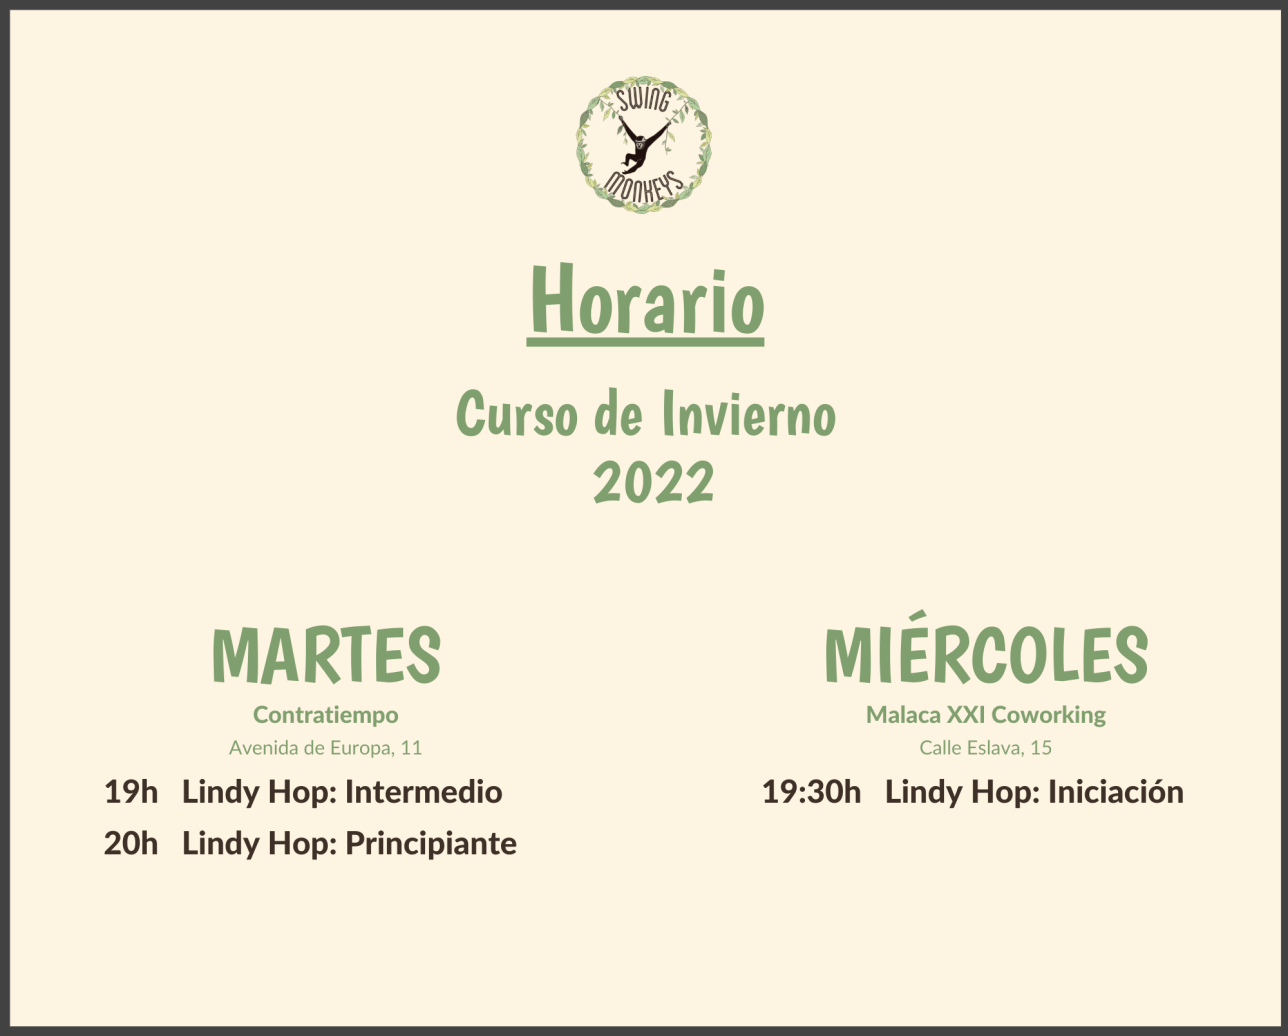
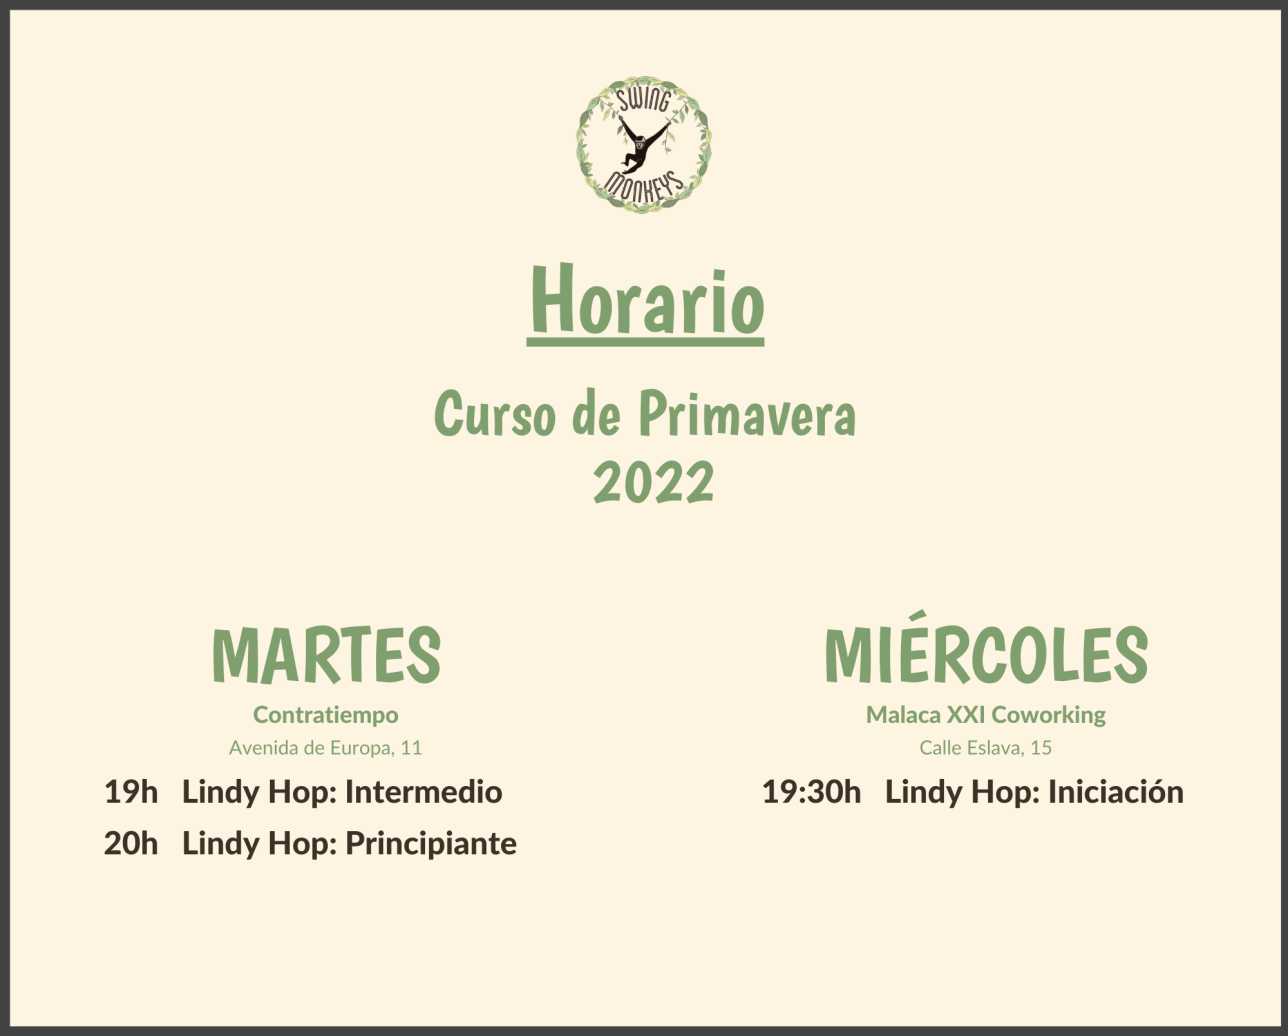
create github pages

Changed region(s): [[0.3416, 0.3707, 0.6832, 0.4324]]

diff --git a/clases.html b/clases.html
@@ -59,7 +59,7 @@
     </nav>
 </section>
 
-<section class="engine"><a href="https://mobirise.info/n">simple web templates</a></section><section class="header7 cid-shO8uX2D8h" id="header7-7p">
+<section class="engine"><a href="https://mobirise.info/x">css templates</a></section><section class="header7 cid-shO8uX2D8h" id="header7-7p">
 
     
 
@@ -72,7 +72,7 @@
                 <h1 class="mbr-section-title mbr-white pb-3 mbr-fonts-style display-2"><strong>Swing Monkeys:</strong><div><strong>Clases Regulares</strong></div></h1>
                 <div class="mbr-section-text mbr-white pb-3">
                     <p class="mbr-text mbr-fonts-style display-5">
-                        Curso de Invierno 2022</p>
+                        Curso de Primavera 2022</p>
                 </div>
                 <div class="mbr-section-btn"><a class="btn btn-md btn-primary display-4" href="https://forms.gle/CDSBTKzgjZMbXKFY7" target="_blank"><br>¡Inscríbete!<br>[Contratiempo]<br><br></a> <a class="btn btn-md btn-primary display-4" href="https://forms.gle/X1hPc6cRXQvVmWuAA" target="_blank">¡Inscríbete!<br>[Malaca XXI<br>Coworking]<br><br>*NUEVA CLASE*<br></a></div>
             </div>
@@ -238,7 +238,7 @@
     <div class="container">
         <div class="media-container-row">
 
-            <div class="plan col-12 mx-2 my-2 justify-content-center">
+            <div class="plan col-12 mx-2 my-2 justify-content-center col-lg-6">
                 <div class="plan-header text-center pt-5">
                     <h3 class="plan-title mbr-fonts-style display-5"><strong>MENSUAL</strong><br>Clases Regulares<br><em>1 clase/semana</em></h3>
                     <div class="plan-price">
@@ -257,7 +257,24 @@
                 </div>
             </div>
 
-            
+            <div class="plan col-12 mx-2 my-2 justify-content-center col-lg-6">
+                <div class="plan-header text-center pt-5">
+                    <h3 class="plan-title mbr-fonts-style display-5"><strong>TRIMESTRE<br></strong>Clases Regulares<br><em>1 clase/semana</em><br></h3>
+                    <div class="plan-price">
+                        <span class="price-value mbr-fonts-style display-5">&nbsp;</span>
+                        <span class="price-figure mbr-fonts-style display-1">81</span>
+                        <small class="price-term mbr-fonts-style display-7">
+                            €</small>
+                    </div>
+                </div>
+                <div class="plan-body pb-5">
+                    <div class="plan-list align-center">
+                        <ul class="list-group list-group-flush mbr-fonts-style display-7">
+                            <li class="list-group-item"><strong><br></strong></li><li class="list-group-item"><strong>&nbsp; &nbsp; &nbsp;11h de clases</strong></li><li class="list-group-item">&nbsp; &nbsp; &nbsp; &nbsp; &nbsp; &nbsp; &nbsp; &nbsp; &nbsp; &nbsp; &nbsp; &nbsp; &nbsp; &nbsp; &nbsp; &nbsp; &nbsp; &nbsp; &nbsp; &nbsp; &nbsp; &nbsp; &nbsp; &nbsp; &nbsp; &nbsp; [Abril - Junio]</li></ul>
+                    </div>
+                    
+                </div>
+            </div>
 
             
 
@@ -274,11 +291,11 @@
     <div class="container">
         <div class="row justify-content-center content-row">
             <div class="media-container-column title col-12 col-lg-7 col-md-6">
-                <h3 class="mbr-section-subtitle align-left mbr-light pb-3 mbr-fonts-style display-5"><br><br>¡Sigue nuestro calendario para ver todas las fechas de las clases regulares para el curso de invierno 2022!<br><br></h3>
+                <h3 class="mbr-section-subtitle align-left mbr-light pb-3 mbr-fonts-style display-5"><br><br>¡Sigue nuestro calendario para ver todas las fechas de las clases regulares para el curso de primavera 2022!<br><br></h3>
                 <h2 class="align-left mbr-bold mbr-fonts-style display-7"></h2>
             </div>
             <div class="media-container-column col-12 col-lg-3 col-md-4">
-                <div class="mbr-section-btn align-right py-4"><a class="btn btn-primary display-4" href="https://calendar.google.com/calendar/embed?src=phpl6co91sa33t22lhgc2hs3dc%40group.calendar.google.com&ctz=Europe%2FMadrid" target="_blank"><em><br></em>Calendario:<br>Curso de Invierno<br> 2022<br></a></div>
+                <div class="mbr-section-btn align-right py-4"><a class="btn btn-primary display-4" href="https://calendar.google.com/calendar/u/0?cid=aW5iczVybW1ha2xjOGQ4M2Z1cTZrMzY1MXNAZ3JvdXAuY2FsZW5kYXIuZ29vZ2xlLmNvbQ" target="_blank"><em><br></em>Calendario:<br>Curso de Primavera<br> 2022<br></a></div>
             </div>
         </div>
     </div>
@@ -312,7 +329,7 @@
                             </div>                
 
                             <div class="card-box">
-                                <p class="block-text mbr-fonts-style display-7"></p><p><strong>• Las clases consisten en una sesión a la semana y tienen una duración de 1 hora.</strong><br><br><strong>• Los requisitos de nivel/experiencia de cada clase se especifican en el formulario de inscripción. Siempre se adapta el ritmo de la clase a lxs alumnxs apuntadxs.</strong><br><br><strong>• Para las clases de Lindy Hop, no es necesario apuntarse con una pareja. Habrá rotaciones entre parejas durante la clase.&nbsp;</strong><br><br><strong>• Para asistir a las clases en la sala Contratiempo, es necesario abonar una matrícula de 15€ en adición a la cuota de la clase.</strong><strong><br></strong><br><strong>• Para mantener una distancia segura, el aforo de las clases&nbsp;</strong><strong>será limitado a: 20 personas (Contratiempo) y 18 personas (Malaca XXI Coworking).&nbsp;El aforo puede cambiar dependiendo de las restricciones actuales de la Junta de Andalucía.</strong><br><br><strong>• Se dispone de gel desinfectante para usar antes, durante, y después de las clases.&nbsp;</strong><br><br><strong>• Es recomendado llevar una botella de agua a la clase.&nbsp;</strong><br><br><strong>• El uso de la mascarilla es obligatorio durante las clases y durante los descansos. Solamente se podrá no hacer uso de la mascarilla para reponer las fuerzas (beber agua y/o comer algo). Si te sientes débil fisicamente o tiene problemas respiratorios, las clases regulares no están recomendadas.<br></strong><br>• <strong>Tráete&nbsp;un segundo par de zapatos para cambiarte y usarlos durante las clases. Recomendamos zapatos deslizantes, planos y cómodos.</strong><br><br><strong>• Las clases regulares para el curso serán impartidos por los profesores Jimmy y Atenea.</strong><br><br><strong>• En caso de que un grupo no llegue a su mínimo de asistentes se procederá a fusionar grupos u otros cambios. Os avisaremos con antelación y agradecemos la comprensión y flexibilidad.</strong><br><br><strong>•&nbsp;El baile swing es una actividad física y siempre existen riesgos. Los alumnos participan libremente conociendo estos riesgos. Swing Monkeys no se hace responsable de cualquier lesión que pueda ocurrir. Sin embargo, dispondrá de las medidas de seguridad necesarias para evitar y minimizar dichos riesgos.</strong><br><strong><br></strong><br>Si tienes cualquier duda, puedes contactar con nosotros a través del email (info.swingmonkeys@gmail.com) o teléfono (637 23 20 36).<strong><br></strong><br><strong><br></strong></p><p></p>
+                                <p class="block-text mbr-fonts-style display-7"></p><p><strong>• Las clases consisten en una sesión a la semana y tienen una duración de 1 hora.</strong><br><br><strong>• El trimestre empezará el martes, 5 de abril y se desarrollará hasta el miércoles, 22 de junio.</strong><br><br><strong>• Los requisitos de nivel/experiencia de cada clase se especifican en el formulario de inscripción. Siempre se adapta el ritmo de la clase a lxs alumnxs apuntadxs.</strong><br><br><strong>• Para las clases de Lindy Hop, no es necesario apuntarse con una pareja. Habrá rotaciones entre parejas durante la clase.&nbsp;</strong><br><br><strong>• Para asistir a las clases en la sala Contratiempo, es necesario abonar una matrícula de 10€ en adición a la cuota de la clase.</strong><strong><br></strong><br><strong>• Para mantener una distancia segura, el aforo de las clases&nbsp;</strong><strong>será limitado a: 20 personas (Contratiempo) y 18 personas (Malaca XXI Coworking).&nbsp;El aforo puede cambiar dependiendo de las restricciones actuales de la Junta de Andalucía.</strong><br><br><strong>• Se dispone de gel desinfectante para usar antes, durante, y después de las clases.&nbsp;</strong><br><br><strong>• Es recomendado llevar una botella de agua a la clase.&nbsp;</strong><br><br><strong>• El uso de la mascarilla es obligatorio durante las clases y durante los descansos. Solamente se podrá no hacer uso de la mascarilla para reponer las fuerzas (beber agua y/o comer algo). Si te sientes débil fisicamente o tiene problemas respiratorios, las clases regulares no están recomendadas.<br></strong><br>• <strong>Tráete&nbsp;un segundo par de zapatos para cambiarte y usarlos durante las clases. Recomendamos zapatos deslizantes, planos y cómodos.</strong><br><br><strong>• Las clases regulares para el curso serán impartidos por los profesores Jimmy y Atenea.</strong><br><br><strong>• En caso de que un grupo no llegue a su mínimo de asistentes se procederá a fusionar grupos u otros cambios. Os avisaremos con antelación y agradecemos la comprensión y flexibilidad.</strong><br><br><strong>•&nbsp;El baile swing es una actividad física y siempre existen riesgos. Los alumnos participan libremente conociendo estos riesgos. Swing Monkeys no se hace responsable de cualquier lesión que pueda ocurrir. Sin embargo, dispondrá de las medidas de seguridad necesarias para evitar y minimizar dichos riesgos.</strong><br><strong><br></strong><br>Si tienes cualquier duda, puedes contactar con nosotros a través del email (info.swingmonkeys@gmail.com) o teléfono (637 23 20 36).<strong><br></strong><br><strong><br></strong></p><p></p>
                             </div>
                         </div>
 

diff --git a/contacto.html b/contacto.html
@@ -57,7 +57,7 @@
     </nav>
 </section>
 
-<section class="engine"><a href="https://mobirise.info/a">online website builder</a></section><section class="mbr-section form1 cid-s0cOR83OJy" id="form1-72">
+<section class="engine"><a href="https://mobirise.info/q">responsive website templates</a></section><section class="mbr-section form1 cid-s0cOR83OJy" id="form1-72">
 
     
 
@@ -76,7 +76,7 @@
         <div class="row justify-content-center">
             <div class="media-container-column col-lg-8" data-form-type="formoid">
                 <!---Formbuilder Form--->
[2 lines of base64/hex data omitted]
                     <div class="row row-sm-offset">
                         <div hidden="hidden" data-form-alert="" class="alert alert-success col-12">¡Gracias por contactarnos! En breve te respondemos por email. 
 

diff --git a/clases-online.html b/clases-online.html
@@ -59,7 +59,7 @@
     </nav>
 </section>
 
-<section class="engine"><a href="https://mobirise.info/y">free html web templates</a></section><section class="header1 cid-sb9a3VEqmt" id="header16-7g">
+<section class="engine"><a href="https://mobirise.info/z">best free html templates</a></section><section class="header1 cid-sb9a3VEqmt" id="header16-7g">
 
     
 

diff --git a/ronda.html b/ronda.html
@@ -57,7 +57,7 @@
     </nav>
 </section>
 
-<section class="engine"><a href="https://mobirise.info/h">how to create your own web page</a></section><section class="header7 cid-rzZcfANzLw" id="header7-55">
+<section class="engine"><a href="https://mobirise.info/e">how to make a site</a></section><section class="header7 cid-rzZcfANzLw" id="header7-55">
 
     
 

diff --git a/ivo-masha.html b/ivo-masha.html
@@ -59,7 +59,7 @@
     </nav>
 </section>
 
-<section class="engine"><a href="https://mobirise.info/i">free web creation software</a></section><section class="header3 cid-rC8y70rKO5" id="header3-5a">
+<section class="engine"><a href="https://mobirise.info/y">html website templates</a></section><section class="header3 cid-rC8y70rKO5" id="header3-5a">
 
     
 

diff --git a/page13.html b/page13.html
@@ -58,7 +58,7 @@
     </nav>
 </section>
 
-<section class="engine"><a href="https://mobirise.info/v">html templates</a></section><section class="header3 cid-rJYlazD0Wt" id="header3-69">
+<section class="engine"><a href="https://mobirise.info/h">how to create your own web page</a></section><section class="header3 cid-rJYlazD0Wt" id="header3-69">
 
     
 

diff --git a/nosotros.html b/nosotros.html
@@ -196,7 +196,7 @@
     </div>
 </section>
 
-<section class="engine"><a href="https://mobirise.info/d">website maker</a></section><section class="features11 cid-rsC8V0k0t3" id="features11-47">
+<section class="engine"><a href="https://mobirise.info/j">website templates</a></section><section class="features11 cid-rsC8V0k0t3" id="features11-47">
 
     
 

diff --git a/eventos.html b/eventos.html
@@ -62,7 +62,7 @@
     </nav>
 </section>
 
-<section class="engine"><a href="https://mobirise.info/f">easy site builder</a></section><section class="header3 cid-scKUBhQGzC" id="header3-7l">
+<section class="engine"><a href="https://mobirise.info/n">free simple site templates</a></section><section class="header3 cid-scKUBhQGzC" id="header3-7l">
 
     
 

diff --git a/jara.html b/jara.html
@@ -65,7 +65,7 @@
     </div>          
 </section>
 
-<section class="engine"><a href="https://mobirise.info/r">free bootstrap template</a></section><section class="cid-rJMEmvNL9w" id="footer1-65">
+<section class="engine"><a href="https://mobirise.info/l">free website templates</a></section><section class="cid-rJMEmvNL9w" id="footer1-65">
 
     
 

diff --git a/miguel.html b/miguel.html
@@ -65,7 +65,7 @@
     </div>          
 </section>
 
-<section class="engine"><a href="https://mobirise.info/e">how to make a website for free</a></section><section class="cid-s0cOy0pjxS" id="footer1-70">
+<section class="engine"><a href="https://mobirise.info/s">bootstrap theme</a></section><section class="cid-s0cOy0pjxS" id="footer1-70">
 
     
 

diff --git a/atenea.html b/atenea.html
@@ -65,7 +65,7 @@
     </div>          
 </section>
 
-<section class="engine"><a href="https://mobirise.info/q">free responsive site templates</a></section><section class="cid-s0cOre2DaQ" id="footer1-6z">
+<section class="engine"><a href="https://mobirise.info/c">site builder</a></section><section class="cid-s0cOre2DaQ" id="footer1-6z">
 
     
 

diff --git a/index.html b/index.html
@@ -58,7 +58,7 @@
     </nav>
 </section>
 
-<section class="engine"><a href="https://mobirise.info/l">free web templates</a></section><section class="header7 cid-rrMpdJKnDW" id="header7-2w">
+<section class="engine"><a href="https://mobirise.info/e">make your own site</a></section><section class="header7 cid-rrMpdJKnDW" id="header7-2w">
 
     
 
